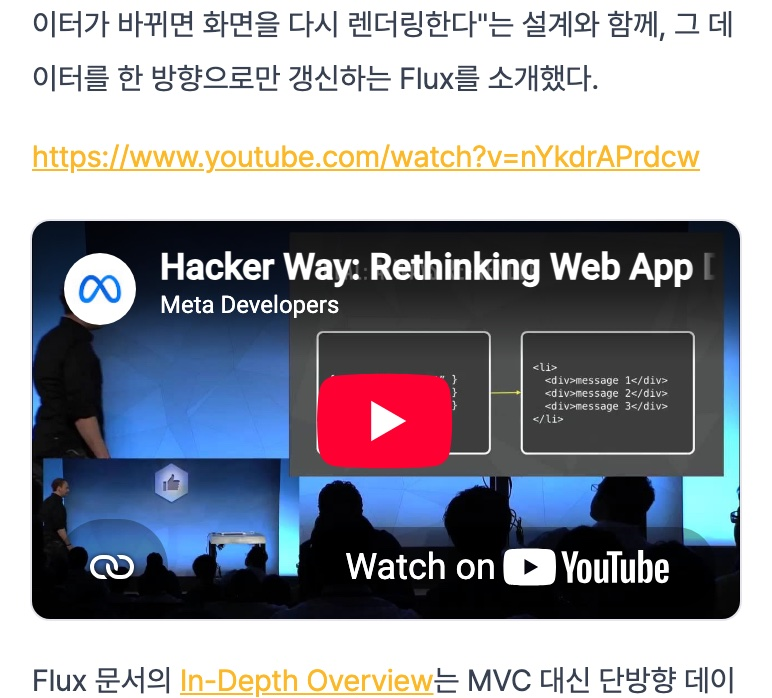
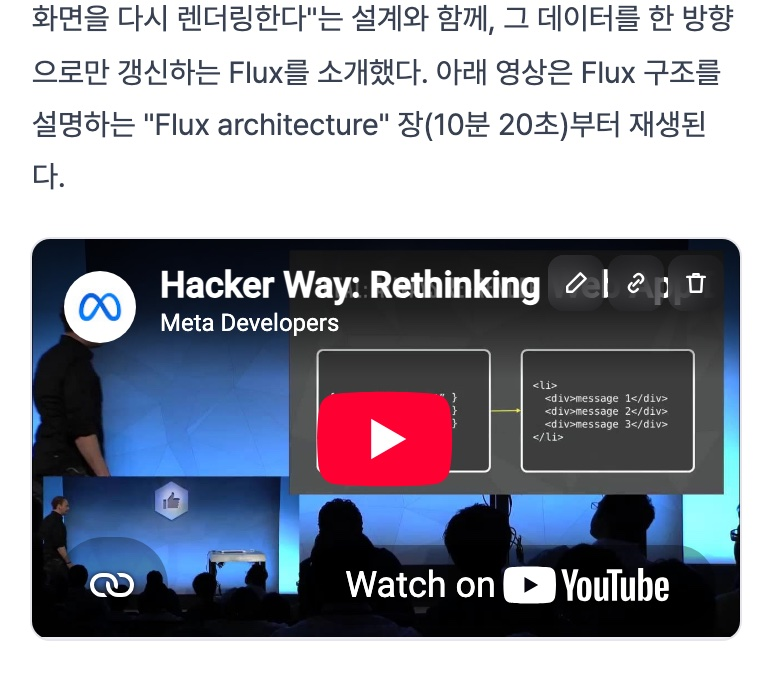
docs(memo): 임베드 개발기에 주소 문단 숨기기와 도구 버튼을 더한다

diff --git a/apps/react/src/apps/memo/content/memo-link-embed.md b/apps/react/src/apps/memo/content/memo-link-embed.md
@@ -101,9 +101,9 @@ p: ({ node, children, ...rest }) => {
 
 ## 편집기: 글을 바꾸지 않는 위젯 장식
 
-관리자로 로그인하면 글은 Milkdown(ProseMirror) 편집기로 열린다. 편집기에서도 같은 임베드가 보여야 읽기 화면과 같은 모양으로 글을 쓸 수 있다.
+관리자로 로그인하면 글은 Milkdown(ProseMirror) 편집기로 열린다. 편집기에서도 같은 임베드가 보여야 읽기 화면과 같은 모양으로 글을 쓸 수 있다. 다만 편집기는 주소를 고칠 방법도 제공해야 한다.
 
-![편집 화면의 YouTube 임베드](./images/memo-link-embed-editor.jpg '편집 화면. 주소 문단은 편집할 수 있는 링크로 남고, 그 아래에 읽기 화면과 같은 재생기가 붙는다')
+![편집 화면의 YouTube 임베드](./images/memo-link-embed-editor.jpg '편집 화면에 마우스를 올린 모습. 읽기 화면과 같은 재생기 오른쪽 위에 주소 바꾸기·링크로 바꾸기·임베드 삭제 버튼이 보인다')
 
 ProseMirror에서 블록을 다르게 그리는 방법은 두 가지다. 노드 종류를 새로 만들어 노드 뷰로 그리거나, 문서는 그대로 두고 장식(decoration)을 붙이는 것이다. 임베드는 Markdown에서 그냥 링크 문단이므로 노드 종류를 만들면 Markdown 변환 규칙까지 새로 정의해야 한다. 그래서 문서를 바꾸지 않는 **위젯 장식**을 골랐다. 위젯 장식은 문서의 특정 위치에 편집 대상이 아닌 DOM을 끼워 넣는 기능이다.
 
@@ -126,6 +126,31 @@ state.doc.descendants((node, pos) => {
 
 장식은 문서가 바뀔 때마다 다시 계산된다. 위젯을 매번 새로 만들면 글자 하나를 입력할 때마다 iframe이 다시 불러와져 재생 중인 영상이 처음으로 돌아간다. ProseMirror는 이전 장식과 `key`가 같은 위젯의 DOM을 다시 쓰므로, key를 iframe 주소로 정해 이 문제를 막았다. 주소를 고치면 key가 바뀌어 새 재생기를 불러온다.
 
+### 주소 문단을 숨기고, 커서가 들어오면 보인다
+
+처음에는 주소 문단을 그대로 두고 그 아래에 재생기를 붙였다. 주소를 고치기는 쉽지만, 편집 화면에만 주소 줄이 한 줄 더 보여 읽기 화면과 모양이 달랐다. 반대로 주소를 완전히 감추고 도구 막대로만 고치게 하면, 키보드로 글을 쓰는 중에 주소를 확인하거나 고치기 어렵다. 그래서 두 방식을 섞었다.
+
+| 상황                              | 화면                                                    |
+| --------------------------------- | ------------------------------------------------------- |
+| 평소                              | 주소 문단을 숨기고 재생기와 "YouTube에서 열기"만 보인다 |
+| 재생기에 마우스를 올림            | 오른쪽 위에 주소 바꾸기·링크로 바꾸기·임베드 삭제 버튼  |
+| 위·아래 화살표로 그 자리에 들어감 | 주소 문단이 보이고 커서가 주소에 놓인다                 |
+| 주소 바꾸기를 누름                | 주소 문단이 보이고 주소 전체가 골라진다                 |
+
+주소 문단을 숨기는 것도 장식이다. `Decoration.node`로 문단에 `memo-embed-source` 클래스를 붙이고, 선택 영역이 그 문단 안에 있을 때만 `data-editing`을 더한다. CSS는 `data-editing`이 없는 주소 문단의 높이와 여백을 0으로 만든다. 문서에서는 문단이 그대로이므로 저장되는 Markdown은 주소 한 줄이다.
+
+![주소를 고치는 편집 화면](./images/memo-link-embed-editing.jpg '주소 바꾸기를 누른 모습. 숨겼던 주소 문단이 재생기 위에 보이고 주소 전체가 골라져, 새 주소를 입력하거나 붙여 넣으면 된다')
+
+높이가 0인 문단에는 브라우저의 위·아래 화살표 이동이 커서를 두지 않고 건너뛴다. 그래서 `handleKeyDown`에서 커서가 문단 끝에 있고(`view.endOfTextblock`) 옆 블록이 주소 문단이면, 직접 그 안에 커서를 둔다. 아래로 들어가면 주소 앞, 위로 들어가면 주소 끝이다.
+
+도구 버튼의 동작은 다음과 같다.
+
+- **주소 바꾸기:** 주소 문단의 글자를 모두 고른다. 선택이 문단 안에 있으므로 주소가 보이고, 새 주소를 입력하거나 붙여 넣으면 된다.
+- **링크로 바꾸기:** 링크 글자를 `https://`를 뺀 주소로 바꾼다. 글자와 주소가 달라져 임베드 규칙에서 빠지고, `[youtube.com/watch?v=…](https://www.youtube.com/watch?v=…)` 링크로 저장된다.
+- **임베드 삭제:** 주소 문단을 지운다.
+
+버튼은 위젯 안의 DOM이라 ProseMirror의 위치를 직접 알지 못한다. 위젯을 만들 때 받는 `getPos()`로 누른 시각의 위젯 위치(주소 문단 바로 뒤)를 얻고, 그 앞 노드가 여전히 주소 문단인지 확인한 뒤 트랜잭션을 만든다.
+
 ### 주소를 입력하거나 바꿀 때
 
 편집기에서 주소를 붙여 넣으면 Milkdown이 붙여 넣은 글자를 Markdown으로 해석해, GFM의 주소 자동 링크 규칙에 따라 링크로 만든다. 그 문단이 주소 하나뿐이면 바로 임베드가 붙는다. 그러나 두 경우에는 링크와 글자가 어긋났다.
@@ -139,15 +164,15 @@ state.doc.descendants((node, pos) => {
 
 ## 시험
 
-| 시험                            | 확인하는 것                                                                                                                                                           |
-| ------------------------------- | --------------------------------------------------------------------------------------------------------------------------------------------------------------------- |
-| `embeds.test.ts` (desktop-core) | 사이트별 주소 해석, 시작 시각 `t=1m30s` → 90초, http·지원하지 않는 사이트·ID에 다른 글자가 섞인 주소는 null, 모든 iframe 주소가 `EMBED_ORIGINS` 안                    |
-| `embedBlock.test.ts`            | 주소 링크 하나뿐인 문단만 임베드, 문장 속 링크·글자를 붙인 링크는 제외                                                                                                |
-| `securityHeaders.test.ts`       | `frame-src`에 임베드 출처 8개                                                                                                                                         |
-| `memo-embed.spec.ts` (E2E)      | 읽기 화면의 iframe 주소·제목·16:9 비율·"YouTube에서 열기" 링크, CSP 위반 메시지 없음. 편집 화면의 같은 임베드, 다른 문단에 입력한 뒤에도 같은 iframe 요소 유지        |
-| `memo-embed.spec.ts` (E2E 추가) | 편집기에서 Vimeo 주소를 직접 입력하면 링크와 임베드가 붙고, YouTube 주소 글자를 다른 영상 주소로 바꾸면 링크 대상·임베드·임시 저장한 Markdown이 모두 새 주소를 따른다 |
+| 시험                            | 확인하는 것                                                                                                                                                                                                                                                                           |
+| ------------------------------- | ------------------------------------------------------------------------------------------------------------------------------------------------------------------------------------------------------------------------------------------------------------------------------------- |
+| `embeds.test.ts` (desktop-core) | 사이트별 주소 해석, 시작 시각 `t=1m30s` → 90초, http·지원하지 않는 사이트·ID에 다른 글자가 섞인 주소는 null, 모든 iframe 주소가 `EMBED_ORIGINS` 안                                                                                                                                    |
+| `embedBlock.test.ts`            | 주소 링크 하나뿐인 문단만 임베드, 문장 속 링크·글자를 붙인 링크는 제외                                                                                                                                                                                                                |
+| `securityHeaders.test.ts`       | `frame-src`에 임베드 출처 8개                                                                                                                                                                                                                                                         |
+| `memo-embed.spec.ts` (E2E)      | 읽기 화면의 iframe 주소·제목·16:9 비율·"YouTube에서 열기" 링크, CSP 위반 메시지 없음. 편집 화면에서 주소 문단의 높이가 0이고 같은 임베드·캡션이 보임, 다른 문단에 입력한 뒤에도 같은 iframe 요소 유지                                                                                 |
+| `memo-embed.spec.ts` (E2E 추가) | 위·아래 화살표로 주소 문단에 들어가면 보이고 나오면 숨음. 주소 바꾸기로 다른 영상 주소를 입력하면 링크 대상·임베드·임시 저장한 Markdown이 새 주소를 따르고, 직접 입력한 Vimeo 주소도 임베드됨. 링크로 바꾸기는 `[vimeo.com/…](https://vimeo.com/…)`로, 임베드 삭제는 주소 문단을 지움 |
 
-마지막 시험은 iframe 요소에 표시용 `data-mark`를 붙이고, 다른 문단에 글자를 입력한 뒤에도 그 표시가 남아 있는지로 같은 요소인지 확인한다.
+iframe을 다시 불러오지 않는지는 iframe 요소에 표시용 `data-mark`를 붙이고, 다른 문단에 글자를 입력한 뒤에도 그 표시가 남아 있는지로 같은 요소인지 확인한다.
 
 ## 관련 글
 
